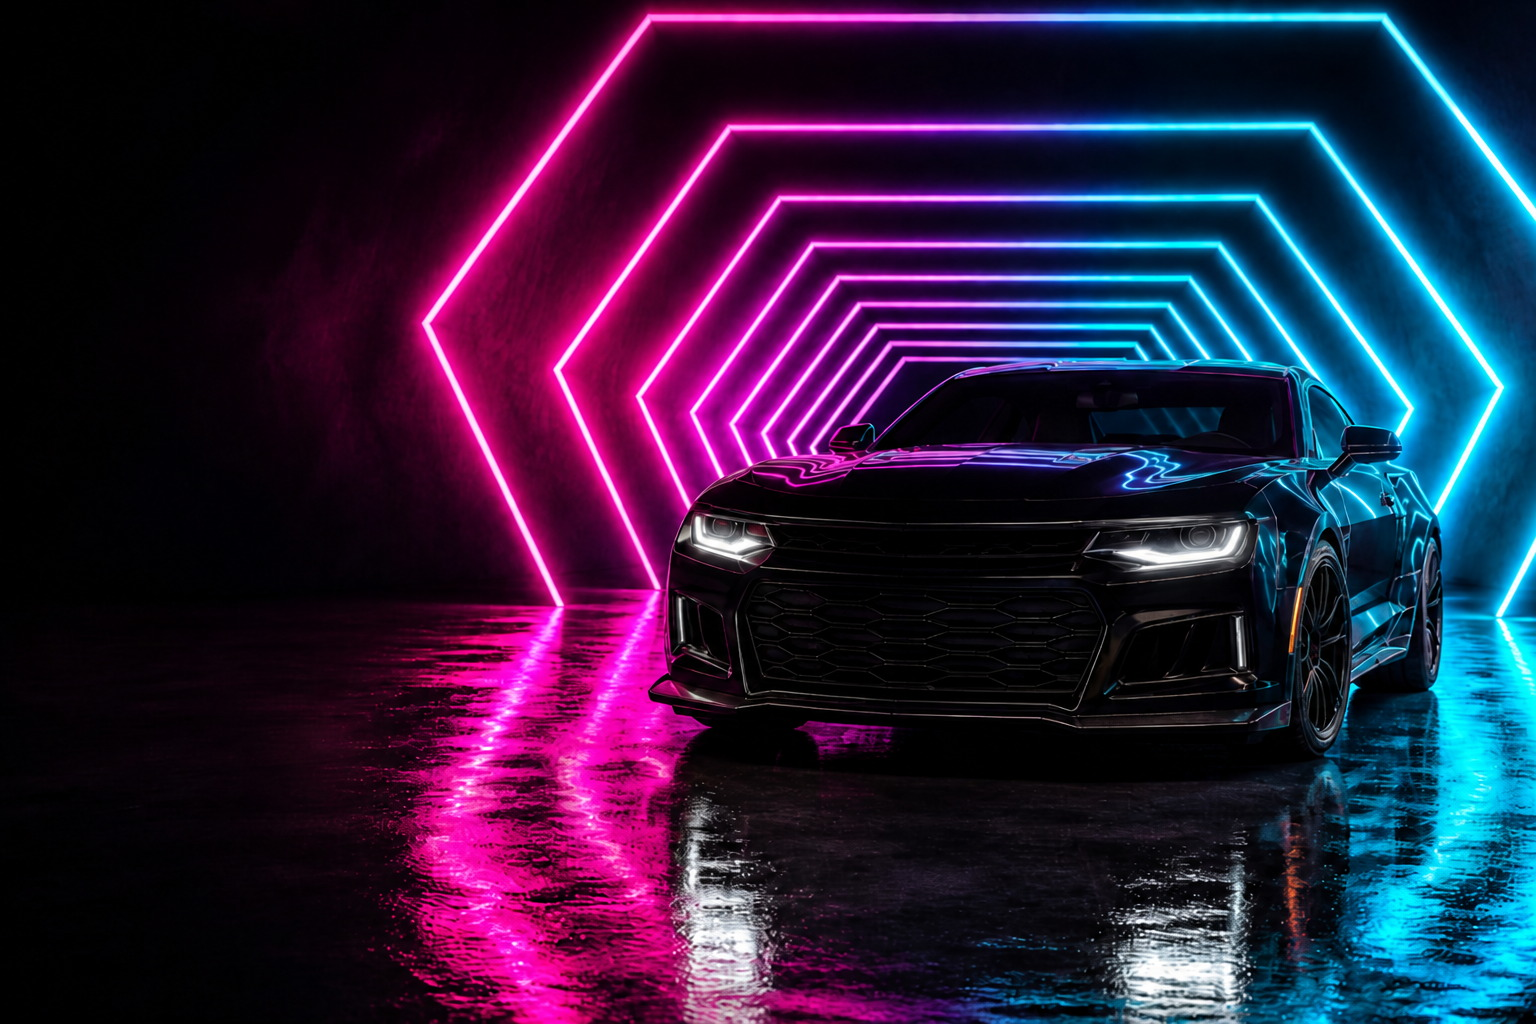
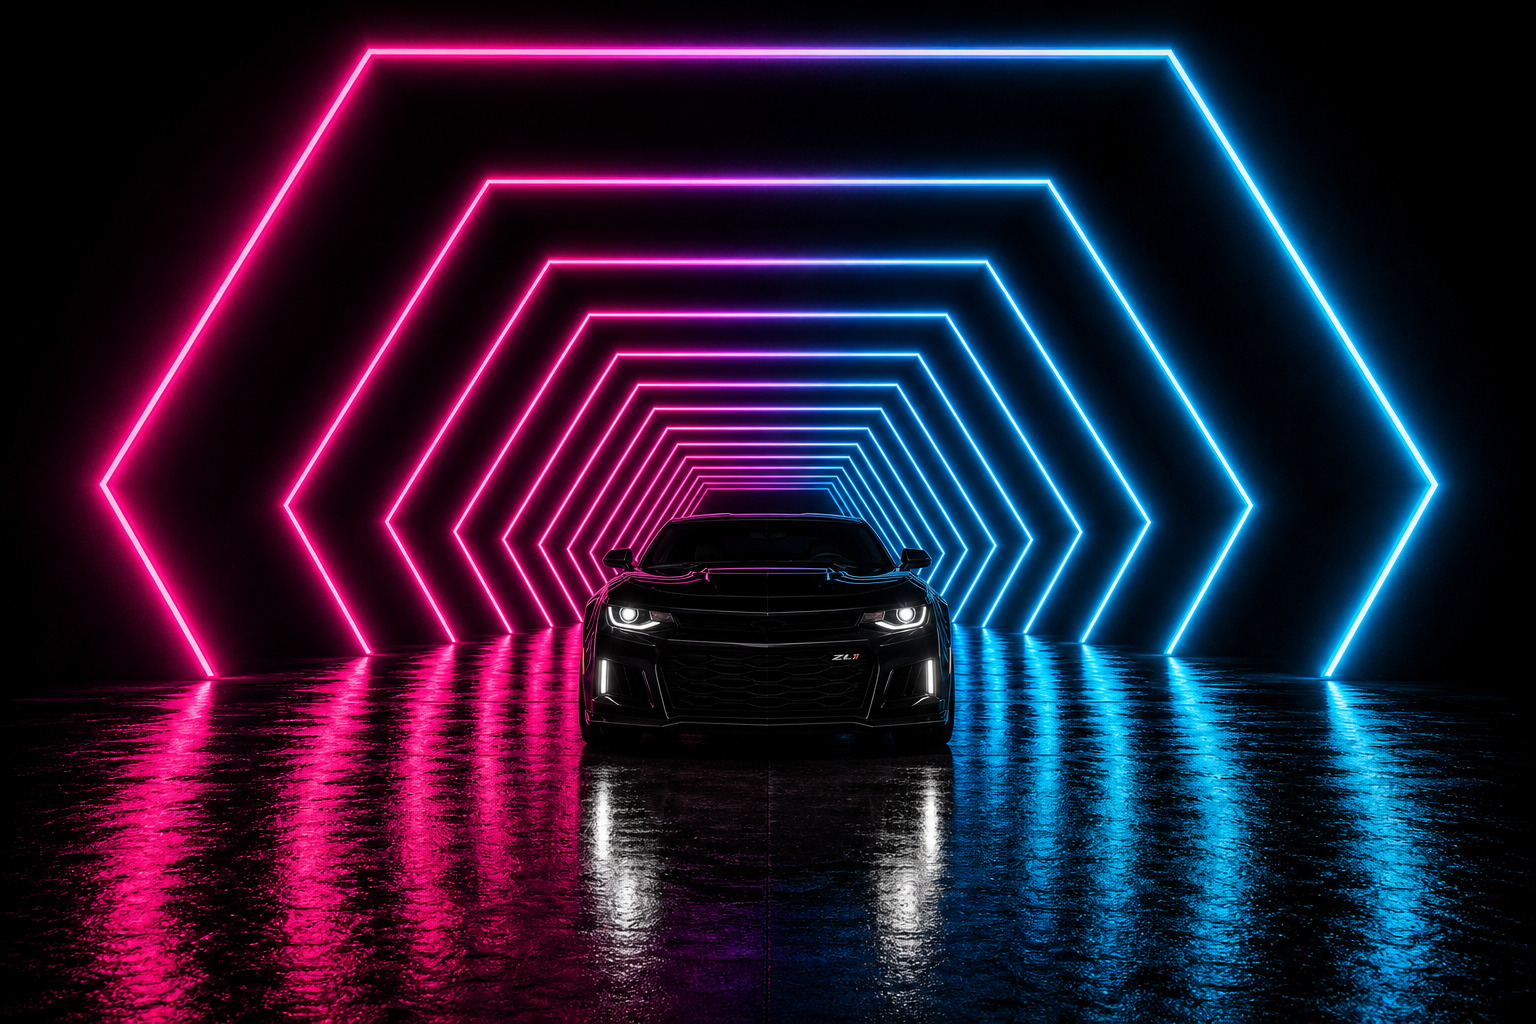
Swap the hero to the front-facing Camaro tunnel photo at 50% zoom.
Use the head-on ZL1 plate instead of the three-quarter crop, and size it to half of cover so the hex rings and wet floor stay in frame.

diff --git a/artifacts/apex-detailing/src/index.css b/artifacts/apex-detailing/src/index.css
@@ -1128,14 +1128,14 @@
     container-type: size;
   }
 
-  /* 1536×1024 plate = the reference photo. Img + SVG share this box so hexes stay on the picture. */
+  /* Front-facing plate at 50% of cover — zoomed out so tunnel + floor stay visible. */
   .apex-hero-plate {
     position: absolute;
-    width: max(100cqw, calc(100cqh * 1536 / 1024));
-    height: max(100cqh, calc(100cqw * 1024 / 1536));
-    left: 68%;
-    top: 48%;
-    transform: translate(-68%, -48%);
+    width: max(50cqw, calc(50cqh * 1536 / 1024));
+    height: max(50cqh, calc(50cqw * 1024 / 1536));
+    left: 58%;
+    top: 52%;
+    transform: translate(-50%, -50%);
   }
 
   .apex-hero-plate picture,
@@ -1336,9 +1336,11 @@
     }
 
     .apex-hero-plate {
-      left: 72%;
-      top: 62%;
-      transform: translate(-72%, -42%);
+      width: max(62cqw, calc(48cqh * 1536 / 1024));
+      height: max(48cqh, calc(62cqw * 1024 / 1536));
+      left: 50%;
+      top: 70%;
+      transform: translate(-50%, -42%);
     }
 
     .apex-hero-wash {

diff --git a/artifacts/apex-detailing/src/components/hero/TunnelFrames.tsx b/artifacts/apex-detailing/src/components/hero/TunnelFrames.tsx
@@ -17,13 +17,13 @@ export default function TunnelFrames({ clockMs, reduced }: Props) {
   const glowId = `tunGlow-${uid}`;
 
   const frames = useMemo(() => {
-    // Measured from apex-option-a-nologo.png neon centroid
-    const cx = 966;
-    const cy = 520;
+    // Front-facing plate: tunnel vanishing point at image center
+    const cx = 768;
+    const cy = 500;
     return Array.from({ length: FRAME_COUNT }, (_, i) => {
       const t = i / (FRAME_COUNT - 1);
-      const rx = 110 + t * 470;
-      const ry = rx * 0.70;
+      const rx = 70 + t * 360;
+      const ry = rx * 0.68;
       return {
         d: hexPath(cx, cy, rx, ry),
         stroke: 1.6 + t * 1.8,

diff --git a/artifacts/apex-detailing/src/components/hero/ApexHero.tsx b/artifacts/apex-detailing/src/components/hero/ApexHero.tsx
@@ -42,9 +42,9 @@ function waitForSplashGone(): Promise<void> {
 }
 
 /**
- * Hero visual is the photographic Camaro + hex tunnel plate (same picture
- * as the reference). 8 SVG paths light back→front over it, then fade so the
- * settled frame is the photo — not a reconstructed car.
+ * Hero visual is the front-facing Camaro + hex tunnel photo, shown at 50% zoom
+ * so the full rings and wet floor stay in frame. 8 SVG paths light back→front
+ * over it, then fade so the settled frame is the photo.
  */
 export default function ApexHero({
   bookingHref,
